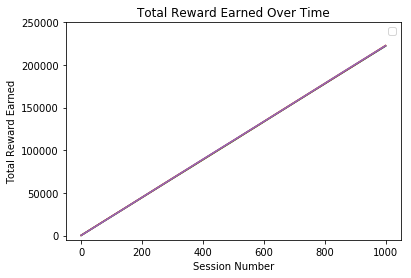
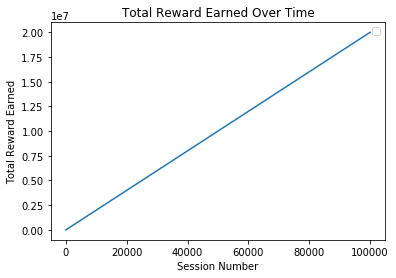
Working on the QLearn agent. Have the first version running but there is an error where none of the axis are being update. Something is preventing the code from updating the values in those positions. So I am A) going to try debugging it, B) going to try restructuring it into a map where state : lis

diff --git a/framework.py b/framework.py
@@ -6,20 +6,22 @@ Created on Sat Aug 10 17:17:40 2019
 """
 
 from state import State
-from envs.simulation import gridSimulation as sim
-from agents.randomAgent import randomAgent
 import random
 import csv
 import yaml
 import matplotlib.pyplot as plt
+from envs.simulation import gridSimulation as sim
+from agents.randomAgent import randomAgent
 from agents.OptimalPolicyAgent import optimalAgent
-
+from agents.QLearnAgent import qLearnAgent
+from enums import *
 
 
 class framework:
     
-    def __init__(self, fileName):
+    def __init__(self, fileName='params', debug = False):
         success = self.loadParams(fileName)
+        self.debug = debug
         if success:
             self.train()
         else:
@@ -29,9 +31,11 @@ class framework:
         dungeon = sim(self.goalReward, self.stepReward, self.stepPunishment, self.xLength, self.yLength)
         # select agent
         if self.agent == 'RANDOM':
-            agent = randomAgent(learningRate=self.learning_rate, discount=self.discount)
+            agent = randomAgent(learningRate=self.learning_rate, discount=self.discount, xLength=self.xLength, yLength=self.yLength)
         elif self.agent == 'OPTIMALPOLICY':
-            agent = optimalAgent(learningRate=self.learning_rate, discount=self.discount)
+            agent = optimalAgent(learningRate=self.learning_rate, discount=self.discount, xLength=self.xLength, yLength=self.yLength)
+        elif self.agent == 'QLEARN':
+            agent = qLearnAgent(self.learning_rate, self.discount, self.xLength, self.yLength, self.iterations, self.explorationRate)
         else:
             print("Invalid selection. Please try again.")
             return
@@ -58,13 +62,15 @@ class framework:
                         print("There was an error with one of the actions chosen.")
                         return
                     agent.update(old_state, new_state, action, reward) # Let the agent update internals
-            
+                    if self.debug:
+                        print(agent.qTable)
+                        test = input()
                     total_reward += reward # Keep score
                     
                     if reward == self.goalReward:
                         print("\nWe made it to the goal on episode "+str(i)+" and session "+str(j))
                         break
-                print("The total reward for episode "+str(i)+" session "+str(j)+" is "+str(total_reward)+'\n')
+                #print("The total reward for episode "+str(i)+" session "+str(j)+" is "+str(total_reward)+'\n')
                 total_global_reward += total_reward
                 x_session.append(i)
                 y_total_reward.append(total_global_reward)
@@ -73,11 +79,12 @@ class framework:
             
         plt.xlabel('Session Number')
         plt.ylabel('Total Reward Earned')
-        plt.ylim(bottom=-5000, top=250000)
+        #plt.ylim(bottom=-5000, top=250000)
         plt.title('Total Reward Earned Over Time')
         plt.legend()
         plt.savefig(str("results/"+self.agent.lower())+'AgentTrainingResults.png', bbox_inches = 'tight')
         plt.show()
+        print(agent.qTable)
         
     def loadParams(self, fileName):
         try:
@@ -97,6 +104,7 @@ class framework:
                     self.stepReward = paramsMap['stepReward']
                     self.stepPunishment = paramsMap['stepPunishment']
                     self.trainingRuns = paramsMap['training_runs']
+                    self.explorationRate = paramsMap['exploration_rate']
             params.close()
             return True
                     

diff --git a/agents/QLearnAgent.py b/agents/QLearnAgent.py
@@ -1,0 +1,79 @@
+#!/usr/bin/env python3
+# -*- coding: utf-8 -*-
+"""
+Created on Tue Aug 13 09:25:29 2019
+
+@author: jsam
+"""
+
+import sys
+sys.path.append("/home/jsam/GitHub/AphrosLearn")
+from state import State
+import random
+
+class qLearnAgent:
+    
+    def __init__(self, learningRate, discount,  xLength, yLength, iterations, explorationRate=1.0):
+        self.xLength = xLength
+        self.yLength = yLength
+        self.qTable = [[[0 for i in range(4)] for j in range(yLength+1)] for q in range(xLength+1)]
+        self.learningRate = learningRate
+        self.discount = discount
+        self.explorationRate = explorationRate
+        self.explorationDelta = 1.0/float(iterations)
+        print(self.explorationDelta)
+
+    def update(self, oldState, nextState, action, reward):
+        old_value = self.qTable[int(oldState.x)][int(oldState.y)][int(self.convertActionToInt(action))]
+        future_action = self.get_best_action(nextState)
+        future_reward = self.qTable[int(nextState.x)][int(nextState.y)][int(self.convertActionToInt(future_action))]
+        new_value = old_value + self.learningRate * (reward + self.discount * future_reward - old_value)
+        self.qTable[int(oldState.x)][int(oldState.y)][int(self.convertActionToInt(action))] = new_value
+        
+        if self.explorationRate > 0:
+            self.explorationRate -= self.explorationDelta
+            
+    def get_next_action(self, state):
+        if random.random() > self.explorationRate: #Exploit
+            return self.get_best_action(state)
+        else: #Explore
+            return self.get_random_action()
+            
+    def get_random_action(self):
+        x = random.random()
+        if x < .25:
+            return 'up'
+        elif x < .5:
+            return 'down'
+        elif x < .75:
+            return 'left'
+        else:
+            return 'right'
+        
+    def get_best_action(self, state):
+        best_move = 0
+        table_state = self.qTable[int(state.x+(self.xLength/2))][int(state.y+(self.yLength/2))]
+        for i in range(len(table_state)):
+            if table_state[i] < table_state[best_move]:
+                best_move = i
+        if table_state[best_move] == 0:
+            return self.get_random_action()
+        
+        if best_move == 0:
+            return 'up'
+        elif best_move == 1:
+            return 'down'
+        elif best_move == 2:
+            return 'left'
+        else:
+            return 'right'
+        
+    def convertActionToInt(self, action):
+        if action.lower() == 'up':
+            return 0
+        elif action.lower() == 'down':
+            return 1
+        elif action.lower() == 'left':
+            return 2
+        else:
+            return 3

diff --git a/envs/simulation.py b/envs/simulation.py
@@ -4,6 +4,10 @@ Created on Fri Aug  9 21:48:09 2019
 
 @author: josia
 """
+
+import sys
+sys.path.append("/home/jsam/GitHub/AphrosLearn")
+
 from state import State
 import random as rand
 
@@ -82,7 +86,7 @@ class gridSimulation:
     def reset(self):
         self.currentState = State(0, 0)
         while self.currentState.x == 0 and self.currentState.y ==0:
-            self.currentState = State((rand.randint(-self.xSize/2, self.xSize/2)), rand.randint(-self.ySize/2, self.ySize/2))
+            self.currentState = State((rand.randint(int(-self.xSize/2), int(self.xSize/2))), rand.randint(int(-self.ySize/2), int(self.ySize/2)))
         return self.currentState
     
     def getState(self):

diff --git a/agents/randomAgent.py b/agents/randomAgent.py
@@ -4,13 +4,17 @@ Created on Fri Aug  9 22:39:59 2019
 
 @author: josia
 """
-from state import State
 
+
+import sys
+sys.path.append("/home/jsam/GitHub/AphrosLearn")
+from state import State
+from enums import *
 import random
 
 class randomAgent:
     
-    def __init__(self, learningRate, discount):
+    def __init__(self, learningRate, discount, xLength, yLength):
         self.learningRate = learningRate
         self.discount = discount
 

diff --git a/agents/OptimalPolicyAgent.py b/agents/OptimalPolicyAgent.py
@@ -6,11 +6,13 @@ Created on Tue Aug 13 08:55:26 2019
 @author: jsam
 """
 
+import sys
+sys.path.append("/home/jsam/GitHub/AphrosLearn")
 from state import State
 
 class optimalAgent:
     
-    def __init__(self, learningRate, discount):
+    def __init__(self, learningRate, discount, xLength, yLength):
         self.learningRate = learningRate
         self.discount = discount
 
